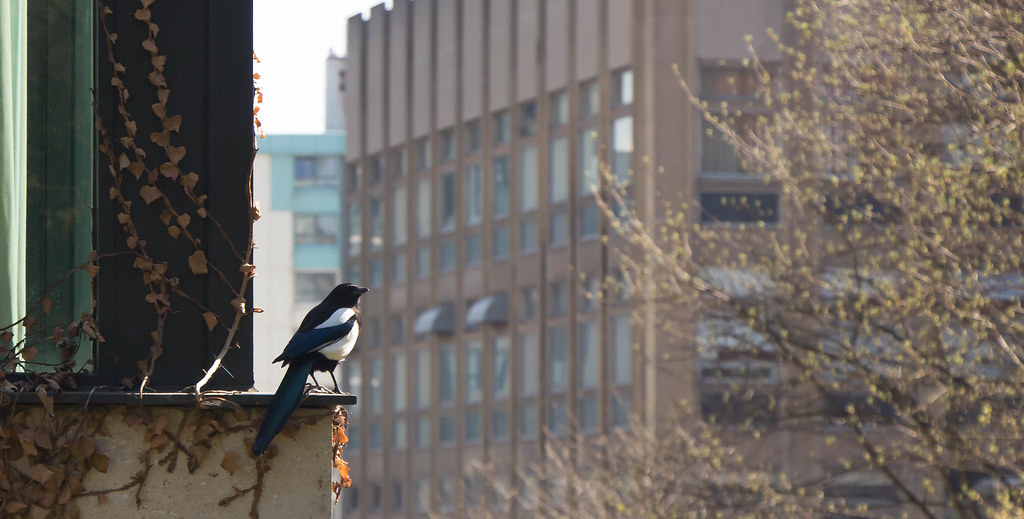
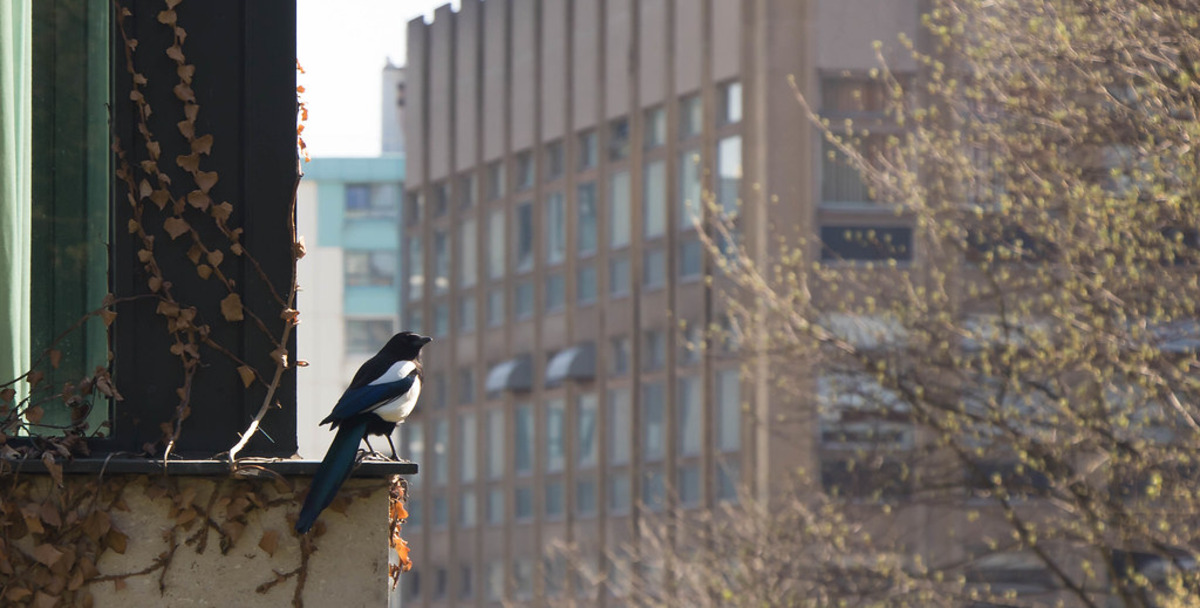
hmmm trying to make gallery work on site rather than just locally

diff --git a/static/css/art.css b/static/css/art.css
@@ -30,21 +30,60 @@
 
 #imageContainer {
     --imageHeight: calc(100vh - var(--header-height) - var(--header-padding-topandtail) * 2 - var(--thumbnail-container-height));
-    justify-content: center;
+    justify-content: left;
     display: flex;
     width: 100%;
     height: var(--imageHeight);
     max-height: var(--imageHeight);
     max-width: 100vw;
-    background-color: #00000030;
     overflow: hidden
 }
-
 #imageContainer img {
-    max-height: calc(100vh - ((var(--header-padding-topandtail) * 2) + var(--header-height)));      /* fill container height but do not exceed */
-    max-width: 100vw;      /* never overflow width */
-    height: auto;      /* fill container height but do not exceed */
-    width: auto;      /* never overflow width */
+    max-height: calc(100vh - ((var(--header-padding-topandtail) * 2) + var(--header-height)));
+    max-width: 75vw;
+    height: auto;
+    width: auto;
+    position: relative;
+    border-right: 1px solid black;
+    border-bottom: 1px solid black
 }
 
+#imageContainer img::after {
+    content: '';
+    position: absolute;
+    right: -1px;  /* Position just outside the image */
+    top: 10px;    /* 10px gap from top */
+    bottom: 10px; /* 10px gap from bottom */
+    width: 1px;
+    background-color: black;
+}
+#imageInfo {
+    padding: 20px;
+    margin-left: 20px;
+    border-left: 1px solid black;
+    height: 100%;
+    display: flex;
+    flex-direction: column;
+    width: 100%;
+    text-align: right
+}
+
+#imageDate {
+    border-bottom: 1px solid black
+}
+
+h3 {
+    font-size: 17pt;
+    padding: 0px;
+             margin: 0px
+}
+
+#zoomButton {
+    height: fit-content;
+    width: fit-content;
+    text-decoration: none
+}
+
+#imageDesc {
+    font-size: 10pt;
 }

diff --git a/templates/art.html b/templates/art.html
@@ -7,17 +7,24 @@
 {% block content %}
 
         <div id='imageContainer'>
-        <img class="mainImage" src='{{url_for('static',
-                     filename='resources/images/art/' + artData[0].contenttype + '/main/' + artData[0].mainFile)}}'>
+            <img class="mainImage" src='{{url_for('static',
+                        filename='resources/images/art/' + artData[0].contenttype + '/main/' + artData[0].mainFile)}}'>
+            <div id="imageInfo">
+                <h3 id="imageTitle">{{ artData[0].title|replace("-"," ")|replace("   "," - ") }}</h3>
+                <i id="imageDate">{{ artData[0].date }}</i>
+                <p id="imageDesc">{{ artData[0].description }}</p>
+                <p><span id="counter">1</span> / <span>{{ artData|length }}</span></p>
+                <a id="zoomButton" target="_blank">🔍</p>
+            </div>
         </div>
 
         <div id='thumbnailContainer'>
         {% for imgObj in artData %}
         <img class="thumbnail"
-             data-previewUrl='{{url_for('static',
-                    filename='resources/images/art/' + imgObj.contenttype + '/previews/' + imgObj.previewFile)}}'
+             data-index={{ loop.index }}
+             data-imgobj='{{ imgObj|tojson }}'
              src='{{url_for('static',
-                     filename='resources/images/art/' + imgObj.contenttype + '/thumbnails/' + imgObj.thumbnailFile)}}'>
+                     filename='resources/images/art/' + imgObj.contenttype.lower() + '/thumbnails/' + imgObj.thumbnailFile)}}'>
         {% endfor %}
         </div>
 
@@ -25,16 +32,36 @@
 const imageContainer = document.getElementById('imageContainer')
 const thumbnailContainer = document.getElementById('thumbnailContainer')
 const mainImage = imageContainer.querySelector('.mainImage');
+const imageInfo = document.getElementById('imageInfo')
+const imageTitle = document.getElementById('imageTitle')
+const imageDate = document.getElementById('imageDate')
+const imageDesc = document.getElementById('imageDesc')
+const counter = document.getElementById('counter')
+const zoomButton = document.getElementById('zoomButton')
 
  thumbnailContainer.addEventListener('mouseenter', e => {
     const clickedThumb = e.target.closest('.thumbnail');
     if (!clickedThumb) return; // clicked outside of a thumbnail
 
+    const imgObj = JSON.parse(clickedThumb.dataset.imgobj);
+
     // Get the embedded data
-    const previewUrl = clickedThumb.dataset.previewurl; // note: dataset converts data-previewUrl to previewurl
+    const previewUrl = `/static/resources/images/art/${imgObj.contenttype}/previews/${imgObj.previewFile}`;
+    const highDefUrl = `/static/resources/images/art/${imgObj.contenttype}/main/${imgObj.mainFile}`
+     const previewTitle = imgObj.title.replace(/-/g, ' ').replace('   ', ' - ');
+     const previewCounter = clickedThumb.dataset.index
+    let previewDesc = imgObj.description
+    if(previewDesc == '') {
+        previewDesc = '...'
+    }
 
     // Update the main image
     mainImage.src = previewUrl;
+    imageTitle.innerText = previewTitle
+    imageDesc.innerText = previewDesc;
+    imageDate.innerText = imgObj.date
+    counter.innerText = previewCounter
+    zoomButton.href = highDefUrl
 
  }, true)
 

diff --git a/static/base.css b/static/base.css
@@ -8,8 +8,8 @@ body {
     background-color: var(--site-background-color);
     font-size: 11pt;
     color: black;
-    --header-padding-topandtail: 10px;
-    --header-height: 70px;
+    --header-padding-topandtail: 8px;
+    --header-height: 50px;
 
 }
 
@@ -19,21 +19,26 @@ header {
     justify-content: space-between;
     align-items: center;
     position: sticky;
-    padding: 20px;
     padding-bottom: var(--header-padding-topandtail);
     padding-top: var(--header-padding-topandtail);
+    padding-right: 10px;
     height: var(--header-height);
     max-height: var(--header-height);
     top: 0;
+    color: white;
     z-index: 100;
-    background-color: var(--site-background-color);
-    border-bottom: 1px black solid
+    background-color: var(--site-accent-color);
+    border-bottom: 1px black solid;
+    filter: drop-shadow(0px 10px 10px #00000035);
+}
 
+header img {
+    max-height: calc(var(--header-height) - 5px);
+    width: auto
 }
 
 .headerRouteDisplay {
     font-family: 'ImperatorBronze', serif;
-    padding-left: 1vw;
     font-weight: bold;
     font-size: 18pt;
 }
@@ -41,10 +46,15 @@ header {
 .flex {
     display: flex
 }
-nav a {
-    margin-right: 15px;
+header a {
     text-decoration: none;
-    color: #0066cc;
+    color: white;
+}
+
+.sociallinks {
+    display: flex;
+    flex-direction: column;
+    text-align: right
 }
 
 nav a:hover {

diff --git a/flask_app.py b/flask_app.py
@@ -77,6 +77,7 @@ def art(category):
     files = {
         "drawing": "static/resources/images/art/drawing/Drawing.json",
         "photography": "static/resources/images/art/photography/Photography.json",
+        "prints": "static/resources/images/art/prints/Prints.json"
     }
 
     if category not in files: